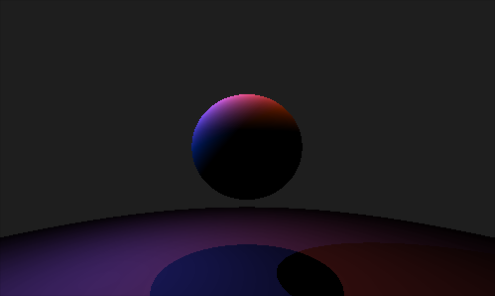
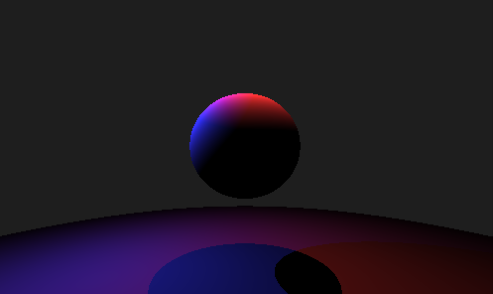
Modified example render

diff --git a/main.py b/main.py
@@ -4,8 +4,8 @@ from objects import *;
 import matplotlib.pyplot as plt;
 
 environment = Environment();
-environment.add_object(Sphere(Vector3D(0, 0, 0), 2, Color3(100, 100, 100), 1, False));
-environment.add_object(Sphere(Vector3D(0, -105, 0), 100, Color3(100, 100, 100), 1, False));
+environment.add_object(Sphere(Vector3D(0, 0, 0), 2, Color3(50, 50, 50), 1, False));
+environment.add_object(Sphere(Vector3D(0, -105, 0), 100, Color3(50, 50, 50), 1, False));
 environment.add_object(PointLight(Vector3D(0, 5, -6), 2, Color3(0, 0, 255), 5));
 environment.add_object(PointLight(Vector3D(0, 8, 0), 2, Color3(255, 0, 0), 5));
 
